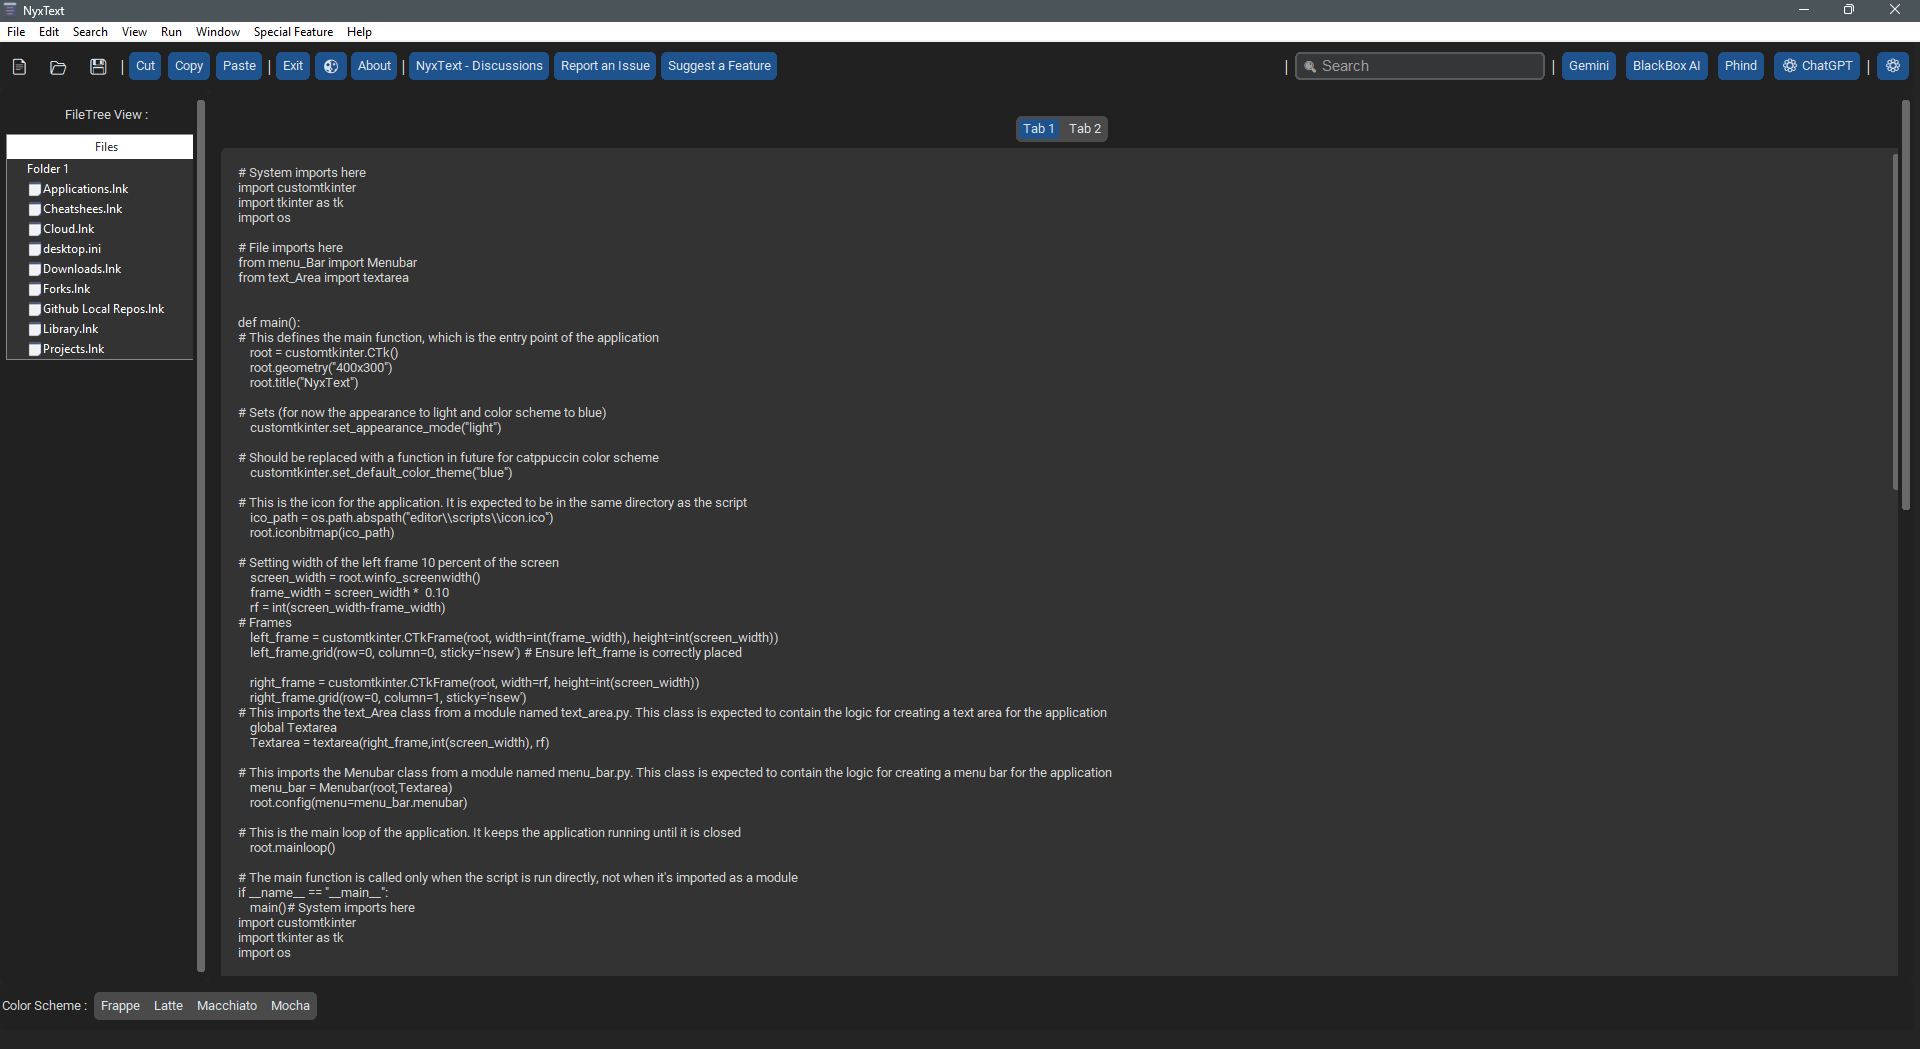
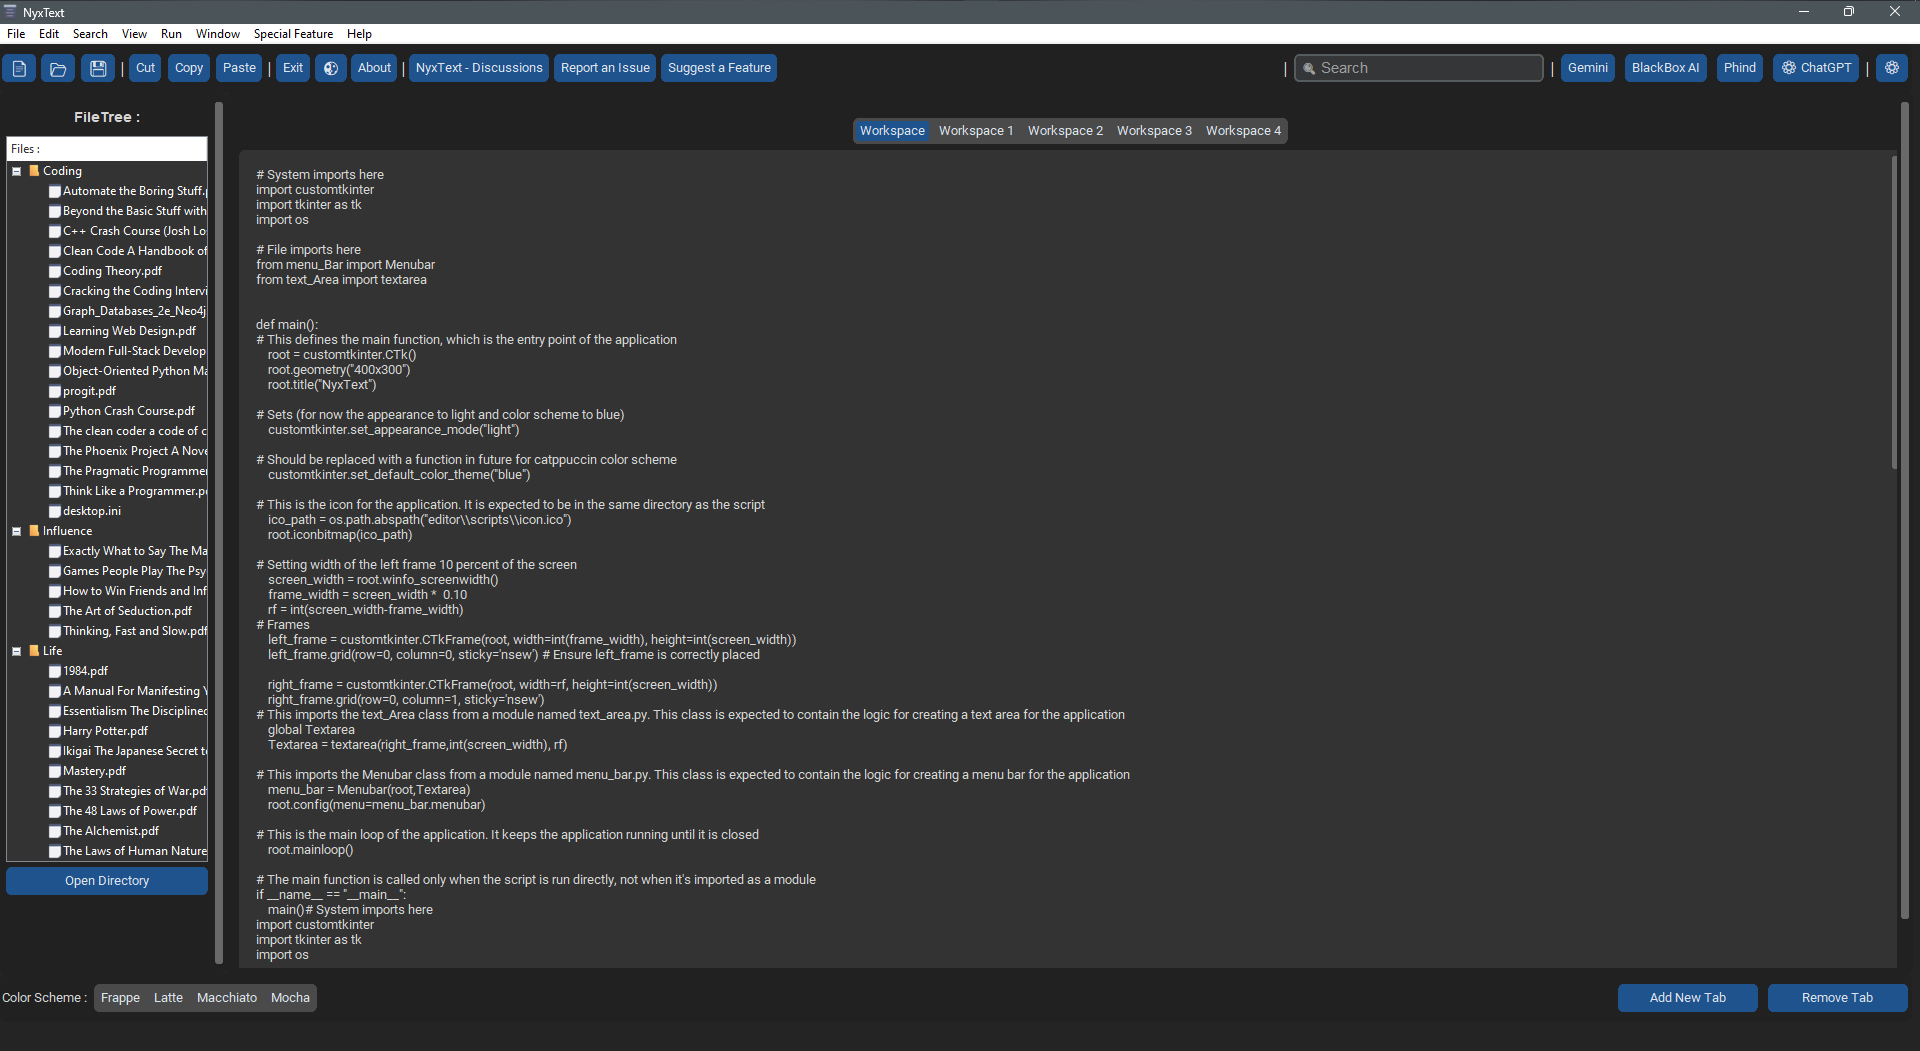
Added bugs, added flavors
Added bugs to do, ticked partially a feature, added flavours ss

diff --git a/README.md b/README.md
@@ -97,7 +97,9 @@ As the first project developed by a group of undergraduates, NyxNote is a work i
 
 ### 🎨 Palette
 
-**Catppuccin** consists of 4 beautiful pastel color palettes.
+**Catppuccin** consists of 4 beautiful pastel color palettes. \
+Thats not it it also has some other custom made themes like **lumber** and **H2O**. \
+The number of themes is not definite, we will be adding more in the future, Also you can make your **own**.
 <p align="center">
 <img src="main/assets/misc/demo.png" alt="catppuccin infrastructure"/>
 </p>
@@ -107,11 +109,10 @@ As the first project developed by a group of undergraduates, NyxNote is a work i
 - [x] ~~Complete rebase to custom_tkinter~~ - Done 28/02/2024 ✅
 - [ ] Syntax Highlighting
 - [x] ~~Filetree viewer~~ - Done 02/03/2024 ✅
-- [ ] Terminal Integration
-- [ ] Code Folding 
+- [ ] Terminal Integration - Partialy done 03/03/2024 ⚠
 - [ ] Spell Check
 - [ ] Indent
-- [ ] Search and Replace
+- [ ] Search bar
 &nbsp;
 ---
 
@@ -122,14 +123,14 @@ Run ***main.py*** in **editor/scipts** to start the editor, project is very unst
 
 <div style="display: flex; align-items: center;">
     <div style="width: 40%; flex: 1;">
-        <p align="center">Alpha Light Mode</p>
+        <p align="center">Different Flavours (as of α-0.0.1v ): </p>
         <hr>
-        <img src="main/assets/misc/Light.png" alt="Alpha Light mode"/>
+        <img src="main/assets/misc/flavours.png" alt="Different flavours"/>
         <br>
     </div>
     <div style="width: 20px;"></div>      <!-- Separator -->
     <div style="width: 40%; flex: 1;">
-        <p align="center">Beta Dark Mode</p>
+        <p align="center">Beta Dark Mode (as of α-0.0.1v )</p>
         <hr>
         <img src="main/assets/misc/Dark.png" alt="Dark mode"/>
     </div>
@@ -137,7 +138,11 @@ Run ***main.py*** in **editor/scipts** to start the editor, project is very unst
 
 ---
 ### 🐜 Bugs : 
-- It's not responsive as the project is still in early development.
+- [ ] It's not responsive as the project is still in early development.
+- [ ] The editor only works in the full screen at the moment.
+- [ ] Filetree cannot open files
+- [ ] There is no dynamic heading.
+- [ ] Search bar does not work.
 
 - Currently the codebase is not modular and contains a lot of redundant code and is not optimized for performance, has two versions. First tkinter based and second custom tkinter based (hybrid).
 
